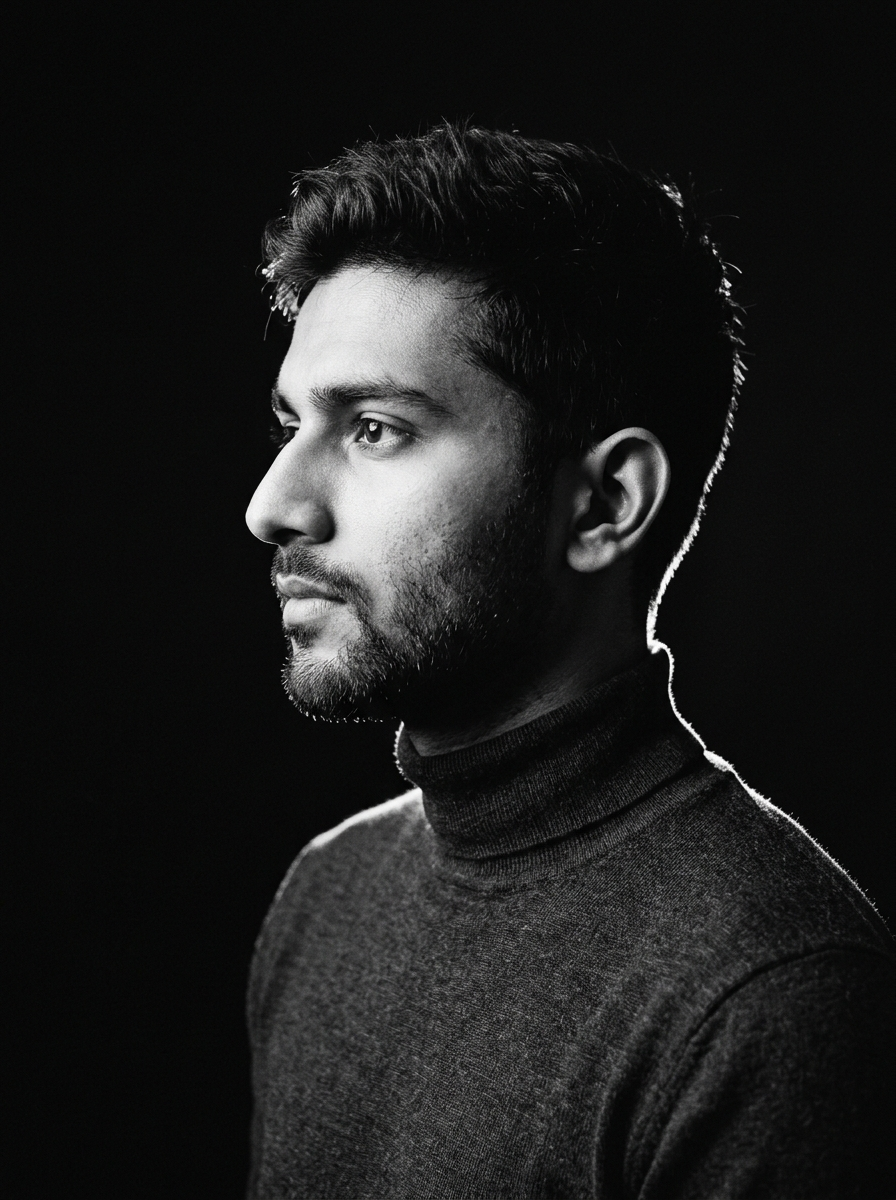
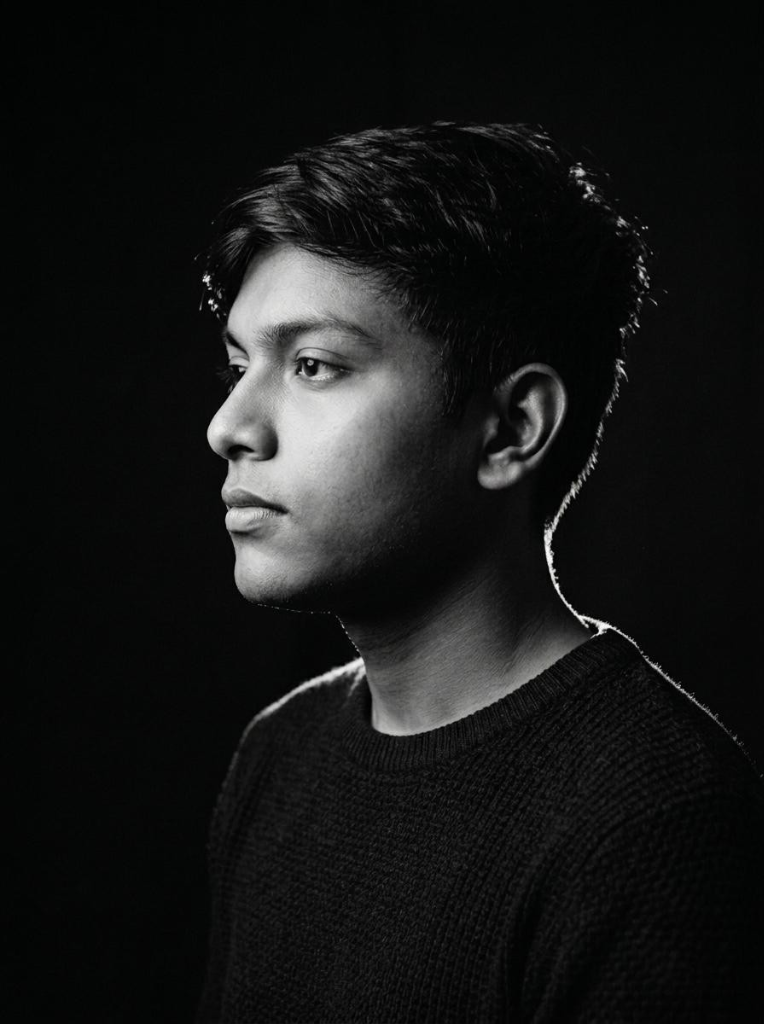
feat: replace portrait with user authentic studio photo on home bento grid

diff --git a/index.html b/index.html
@@ -148,7 +148,7 @@
         <img 
           src="assets/images/portrait.jpg" 
           alt="Yahya Sameeh P P" 
-          class="w-full h-full object-cover grayscale contrast-125 brightness-95 group-hover:scale-105 group-hover:brightness-105 transition-all duration-700 ease-out"
+          class="w-full h-full object-cover object-center group-hover:scale-105 transition-all duration-700 ease-out"
         />
         <!-- Subtle dark vignette overlay -->
         <div class="absolute inset-0 bg-gradient-to-t from-black/50 via-transparent to-black/20 pointer-events-none"></div>
